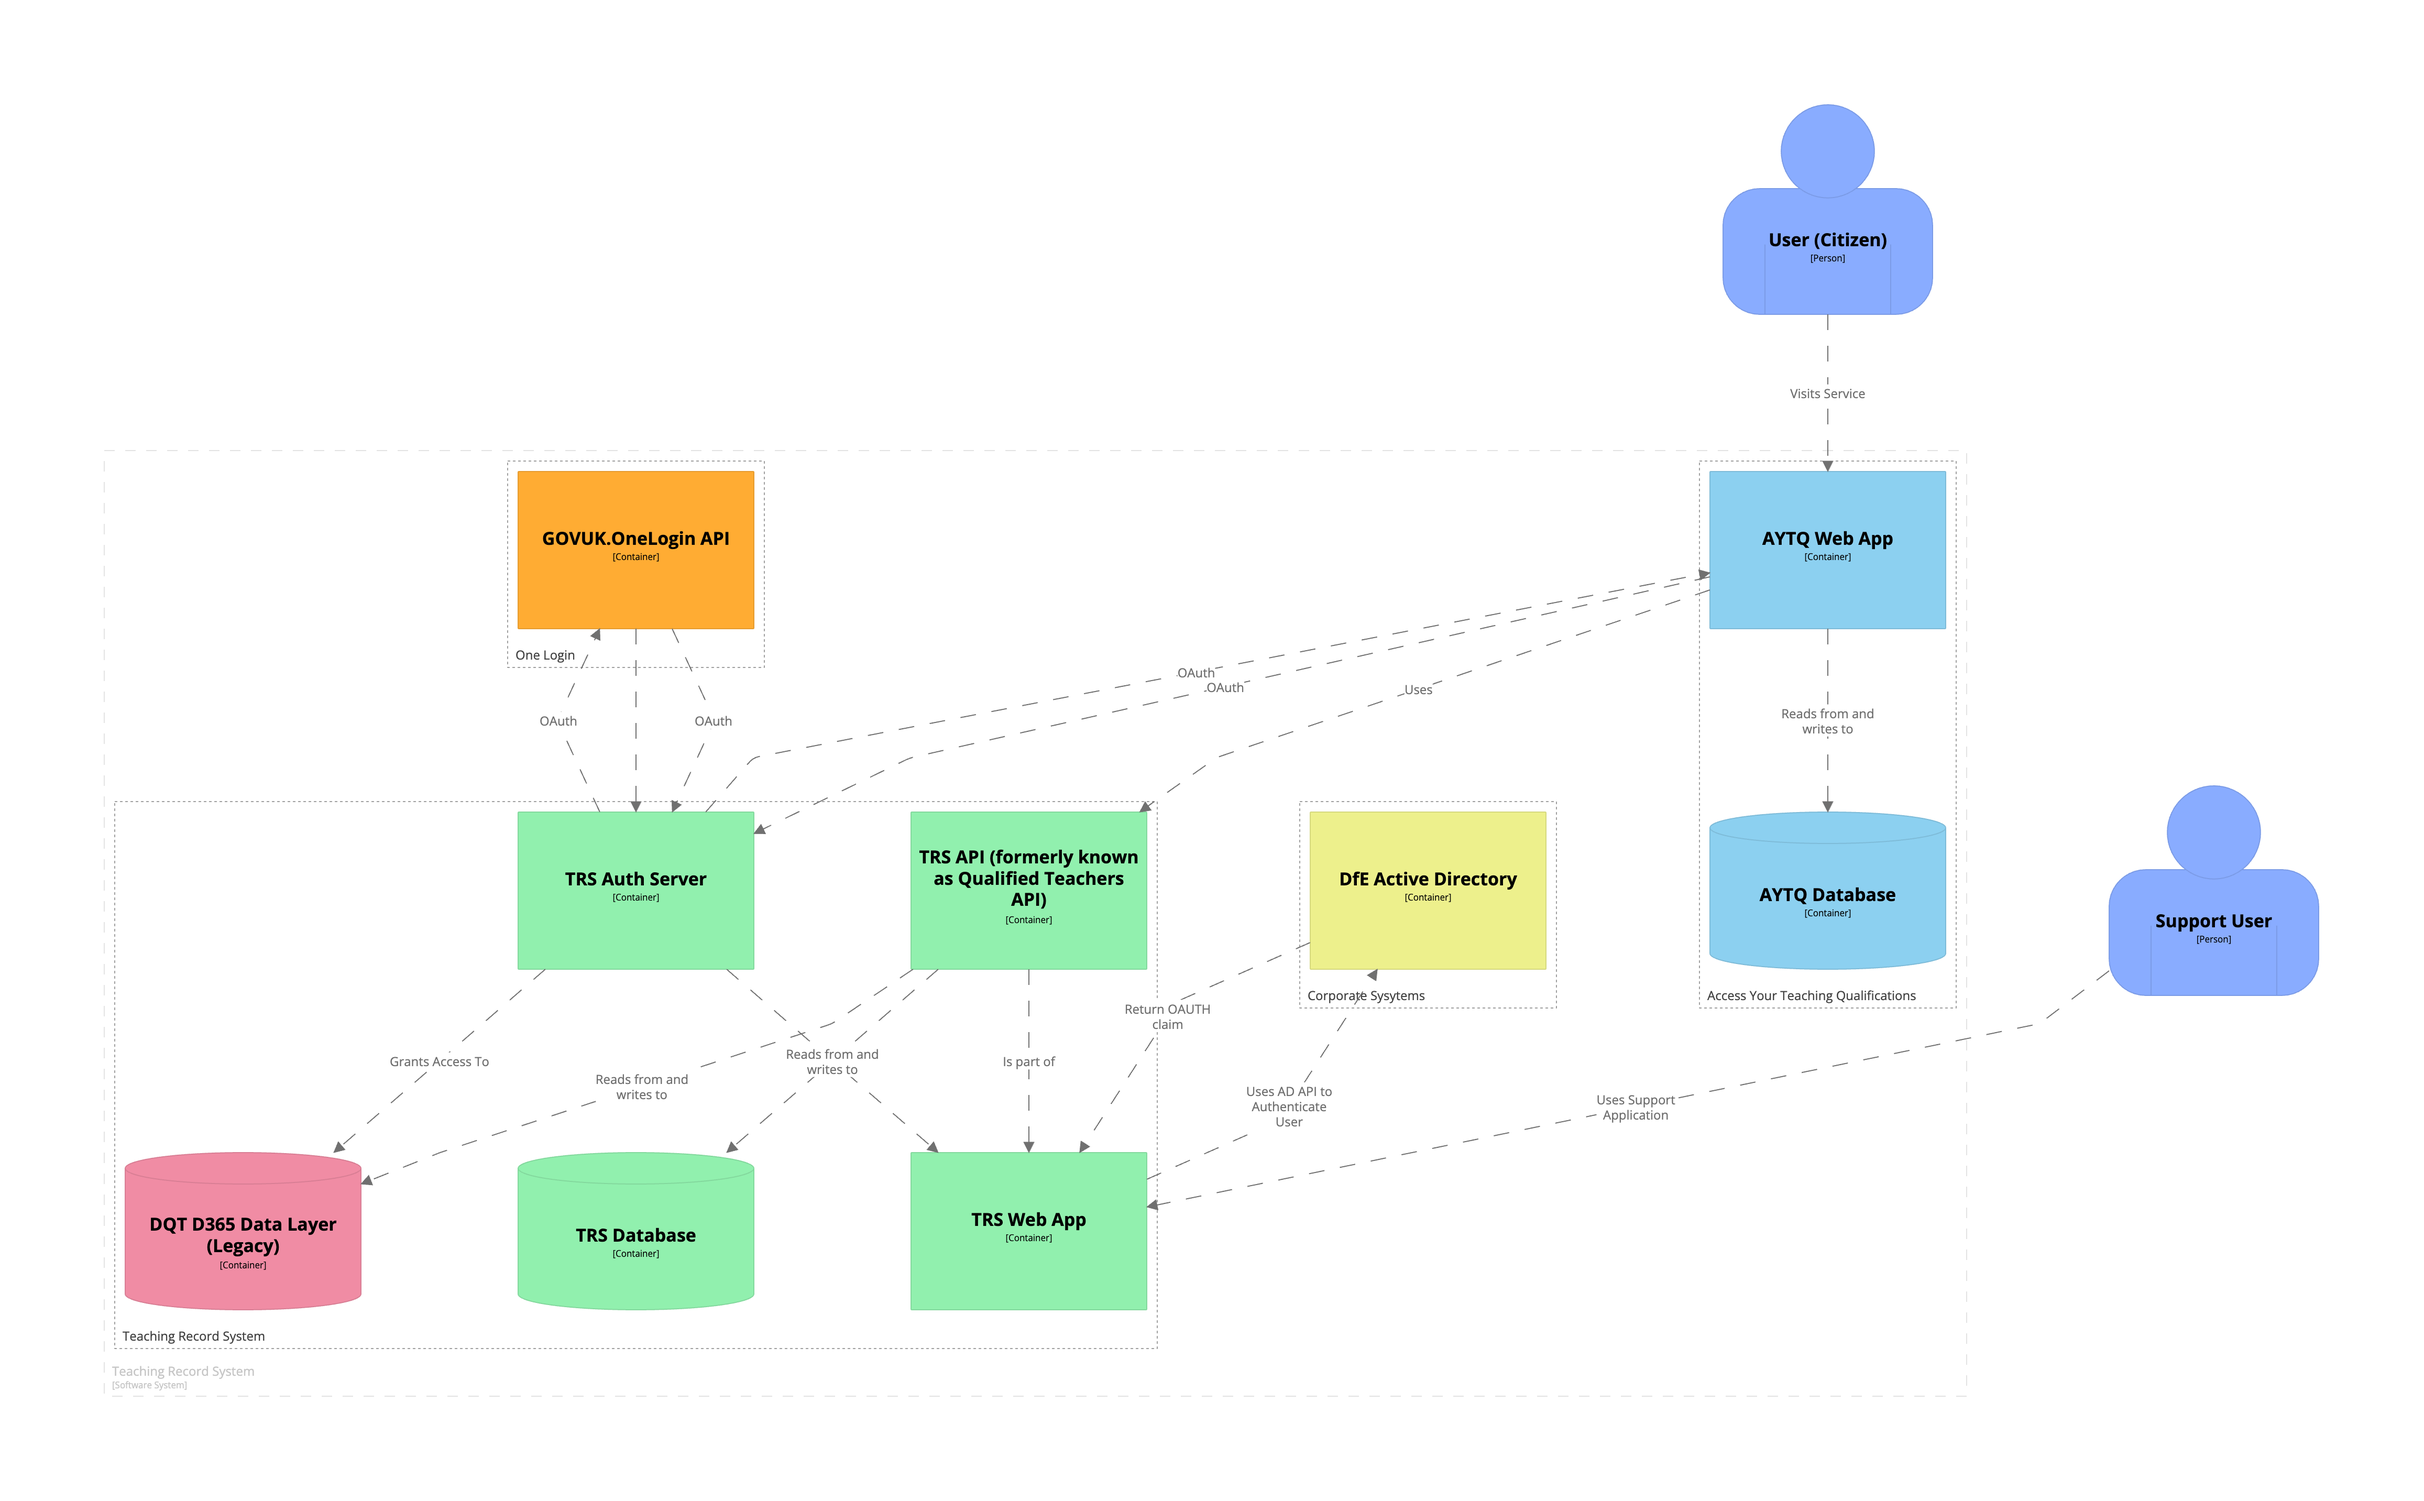
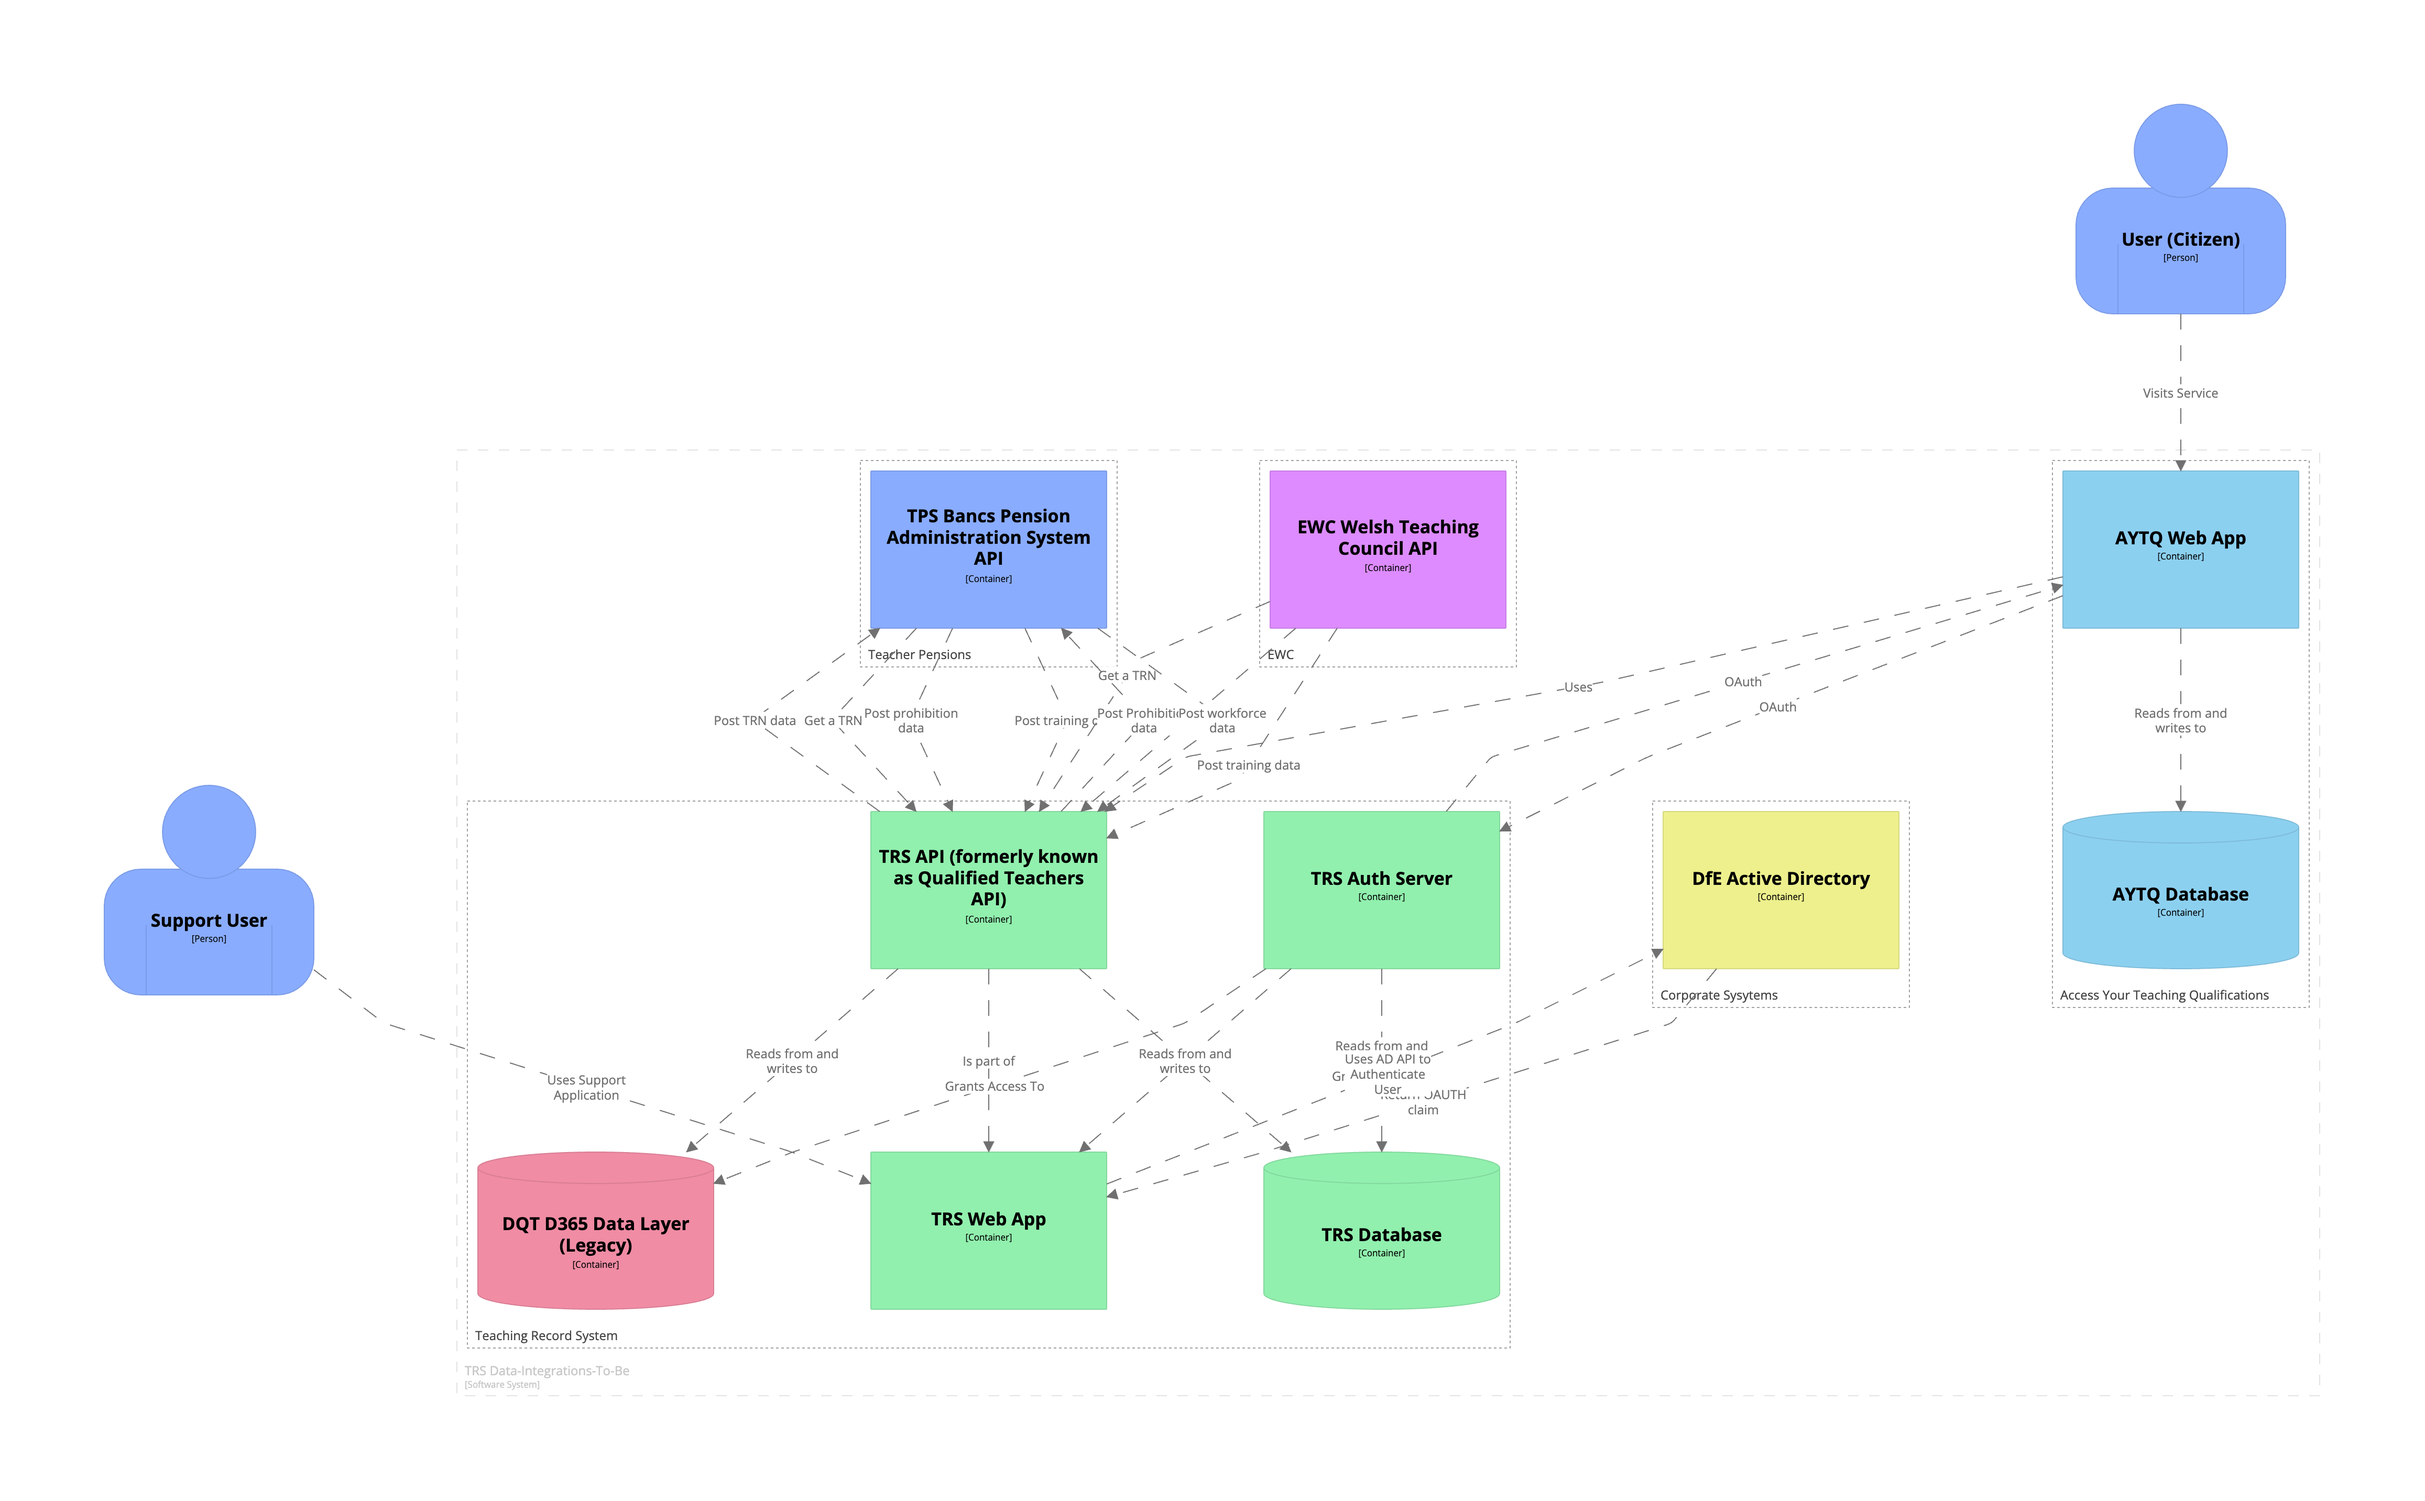
tech documentation updates

diff --git a/docs/trs-gov.one-login-flow.md b/docs/trs-gov.one-login-flow.md
@@ -1,0 +1,23 @@
+# High level flow of signing in to a service that requires authorisation to the teaching record via GOV.UK One Login
+
+The `start` represents the point at which a user visits a service domain for example [Access Your Teaching Qualifications](https://access-your-teaching-qualifications.education.gov.uk/qualifications/start).
+They would be re-directed to [GOV.UK One Login](https://www.sign-in.service.gov.uk/) to sign in. The Teaching Record System will handle the OAUTH flow between GOV.UK One Login and the calling service, as part of this flow it will provide authorisation against the teaching record. Allowing the calling service to grant access depending on finding a match and passing any other access rules needed to access the teaching record data.
+
+```mermaid
+  flowchart TD
+  Start[Start] --> OneLogin[Sign in with One Login]
+  OneLogin --> Verified{Identity verified?}
+  Verified -->|Yes| TrnKnown{TRN known for user?}
+  TrnKnown -->|Yes| Done
+  TrnKnown -->|No| Nino[Ask for NINO & lookup record]
+  Nino --> FoundAfterNino{Teaching record found?}
+  FoundAfterNino -->|Yes| RecordTrn[Record TRN for user]
+  RecordTrn --> Done
+  FoundAfterNino -->|No| Trn[Ask for TRN & lookup record]
+  Trn --> FoundAfterTrn{Teaching record found?}
+  FoundAfterTrn -->|Yes| RecordTrn
+  FoundAfterTrn -->|No| LookupFailed[Support ticket & error page?]
+  Verified -->|No| VerificationFailed[Error page?]
+  Done[Done: redirect to calling service]
+```
+

diff --git a/README.md b/README.md
@@ -1,9 +1,10 @@
 # teaching-record-system
 
 Provides an API over the Database of Qualified Teachers (DQT). Provides the core Teaching record and will eventually replace the Database of Qualified Teachers (DQT).
-[trs containers diagram](docs/c4-diagrams-as-code/trs-containers.png)
+[trs containers diagram](docs/c4-diagrams-as-code/trs-containers.png). The "To Be" Teacher Pensions and EWC (Teaching Council) integration is shown [here](docs/c4-diagrams-as-code/trs-data-integration.png).
 
-
+## Authorising Access using GOV.UK One Login
+All DfE services will adopt the standard GOV.UK One-Login service to provide standard access to citizen facing services. However, for Teacher Services digital services, it is sometime necessary to implement further authorisation to access a teaching record (e.g. for a teacher to view certificates). TRS will provide this authorisation seamlessly (from a user POV) by handling the redirection between calling service --> GOV.UK OneLogin sign in screen -->TRS (to check access) and back to the calling service. More detail can be found [here](docs/trs-gov.one-login-flow.md).
 ## Calling the API
 
 The API is versioned and each endpoint is prefixed with the version number e.g. `/v2/`. You can view the API specifications for each version by visiting `/swagger` (see [Environments](#environments) below for the base addresses).
